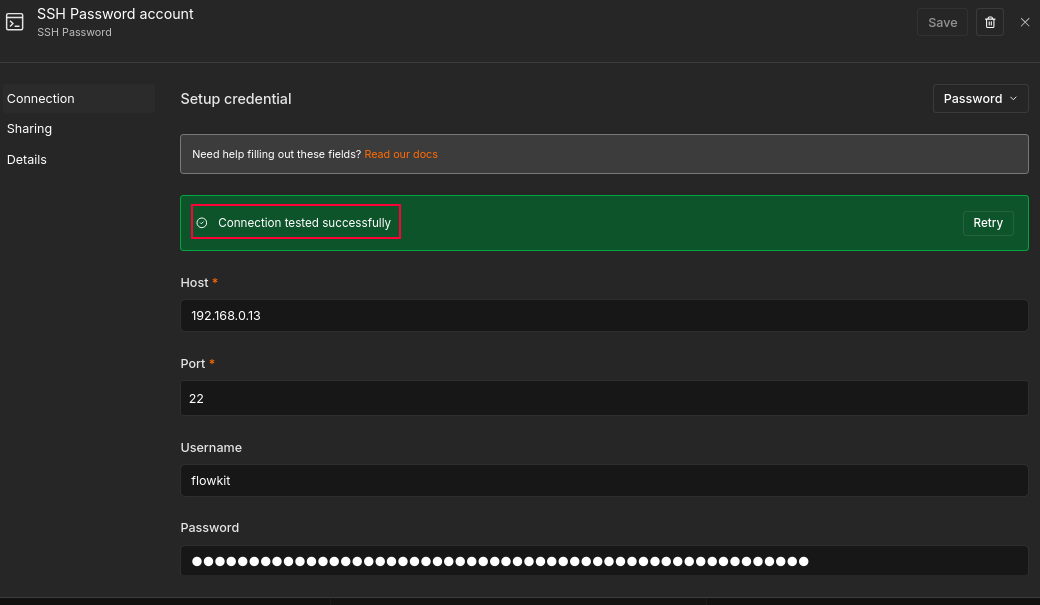
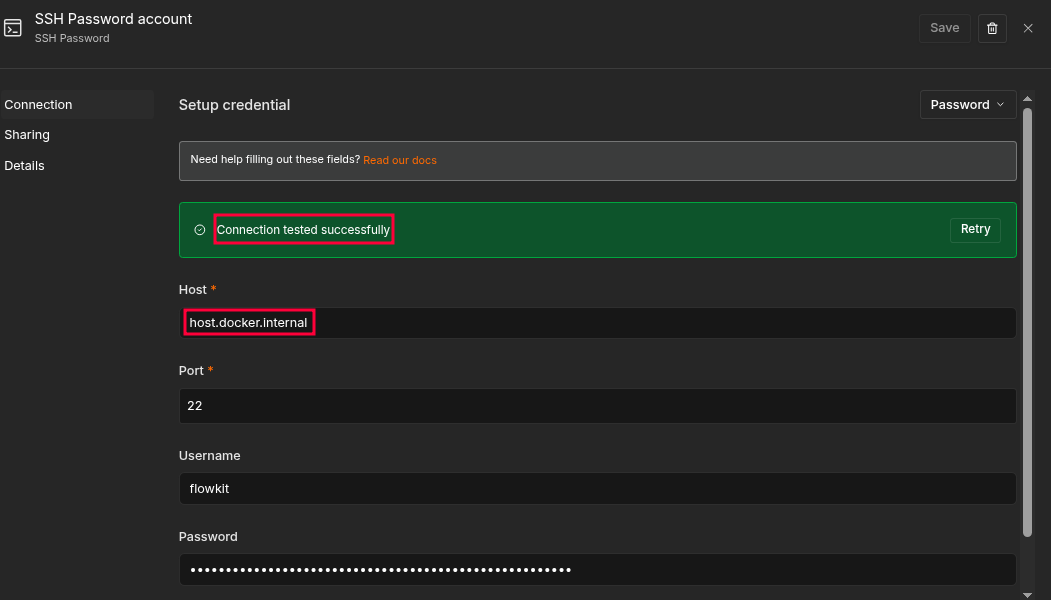
fix: portability between docker hosts

diff --git a/README.md b/README.md
@@ -207,7 +207,8 @@ docker run --rm curlimages/curl:8.22.0 -s https://httpbin.org/json
 
 
 
-Now click on `Connect to SSH Password` and configure authentication with the `flowkit` ssh user you created at the beginning of the deployment:  
+Now click on `Connect to SSH Password` and configure authentication with the `flowkit` ssh user you created at the beginning of the deployment.  
+**Always put `host.docker.internal` as the host and 22 as the port**:     
 ![w3](./media/ssh_workflow_3.png)  
 
 Add a code node to your workflow with this javascript inside:  
